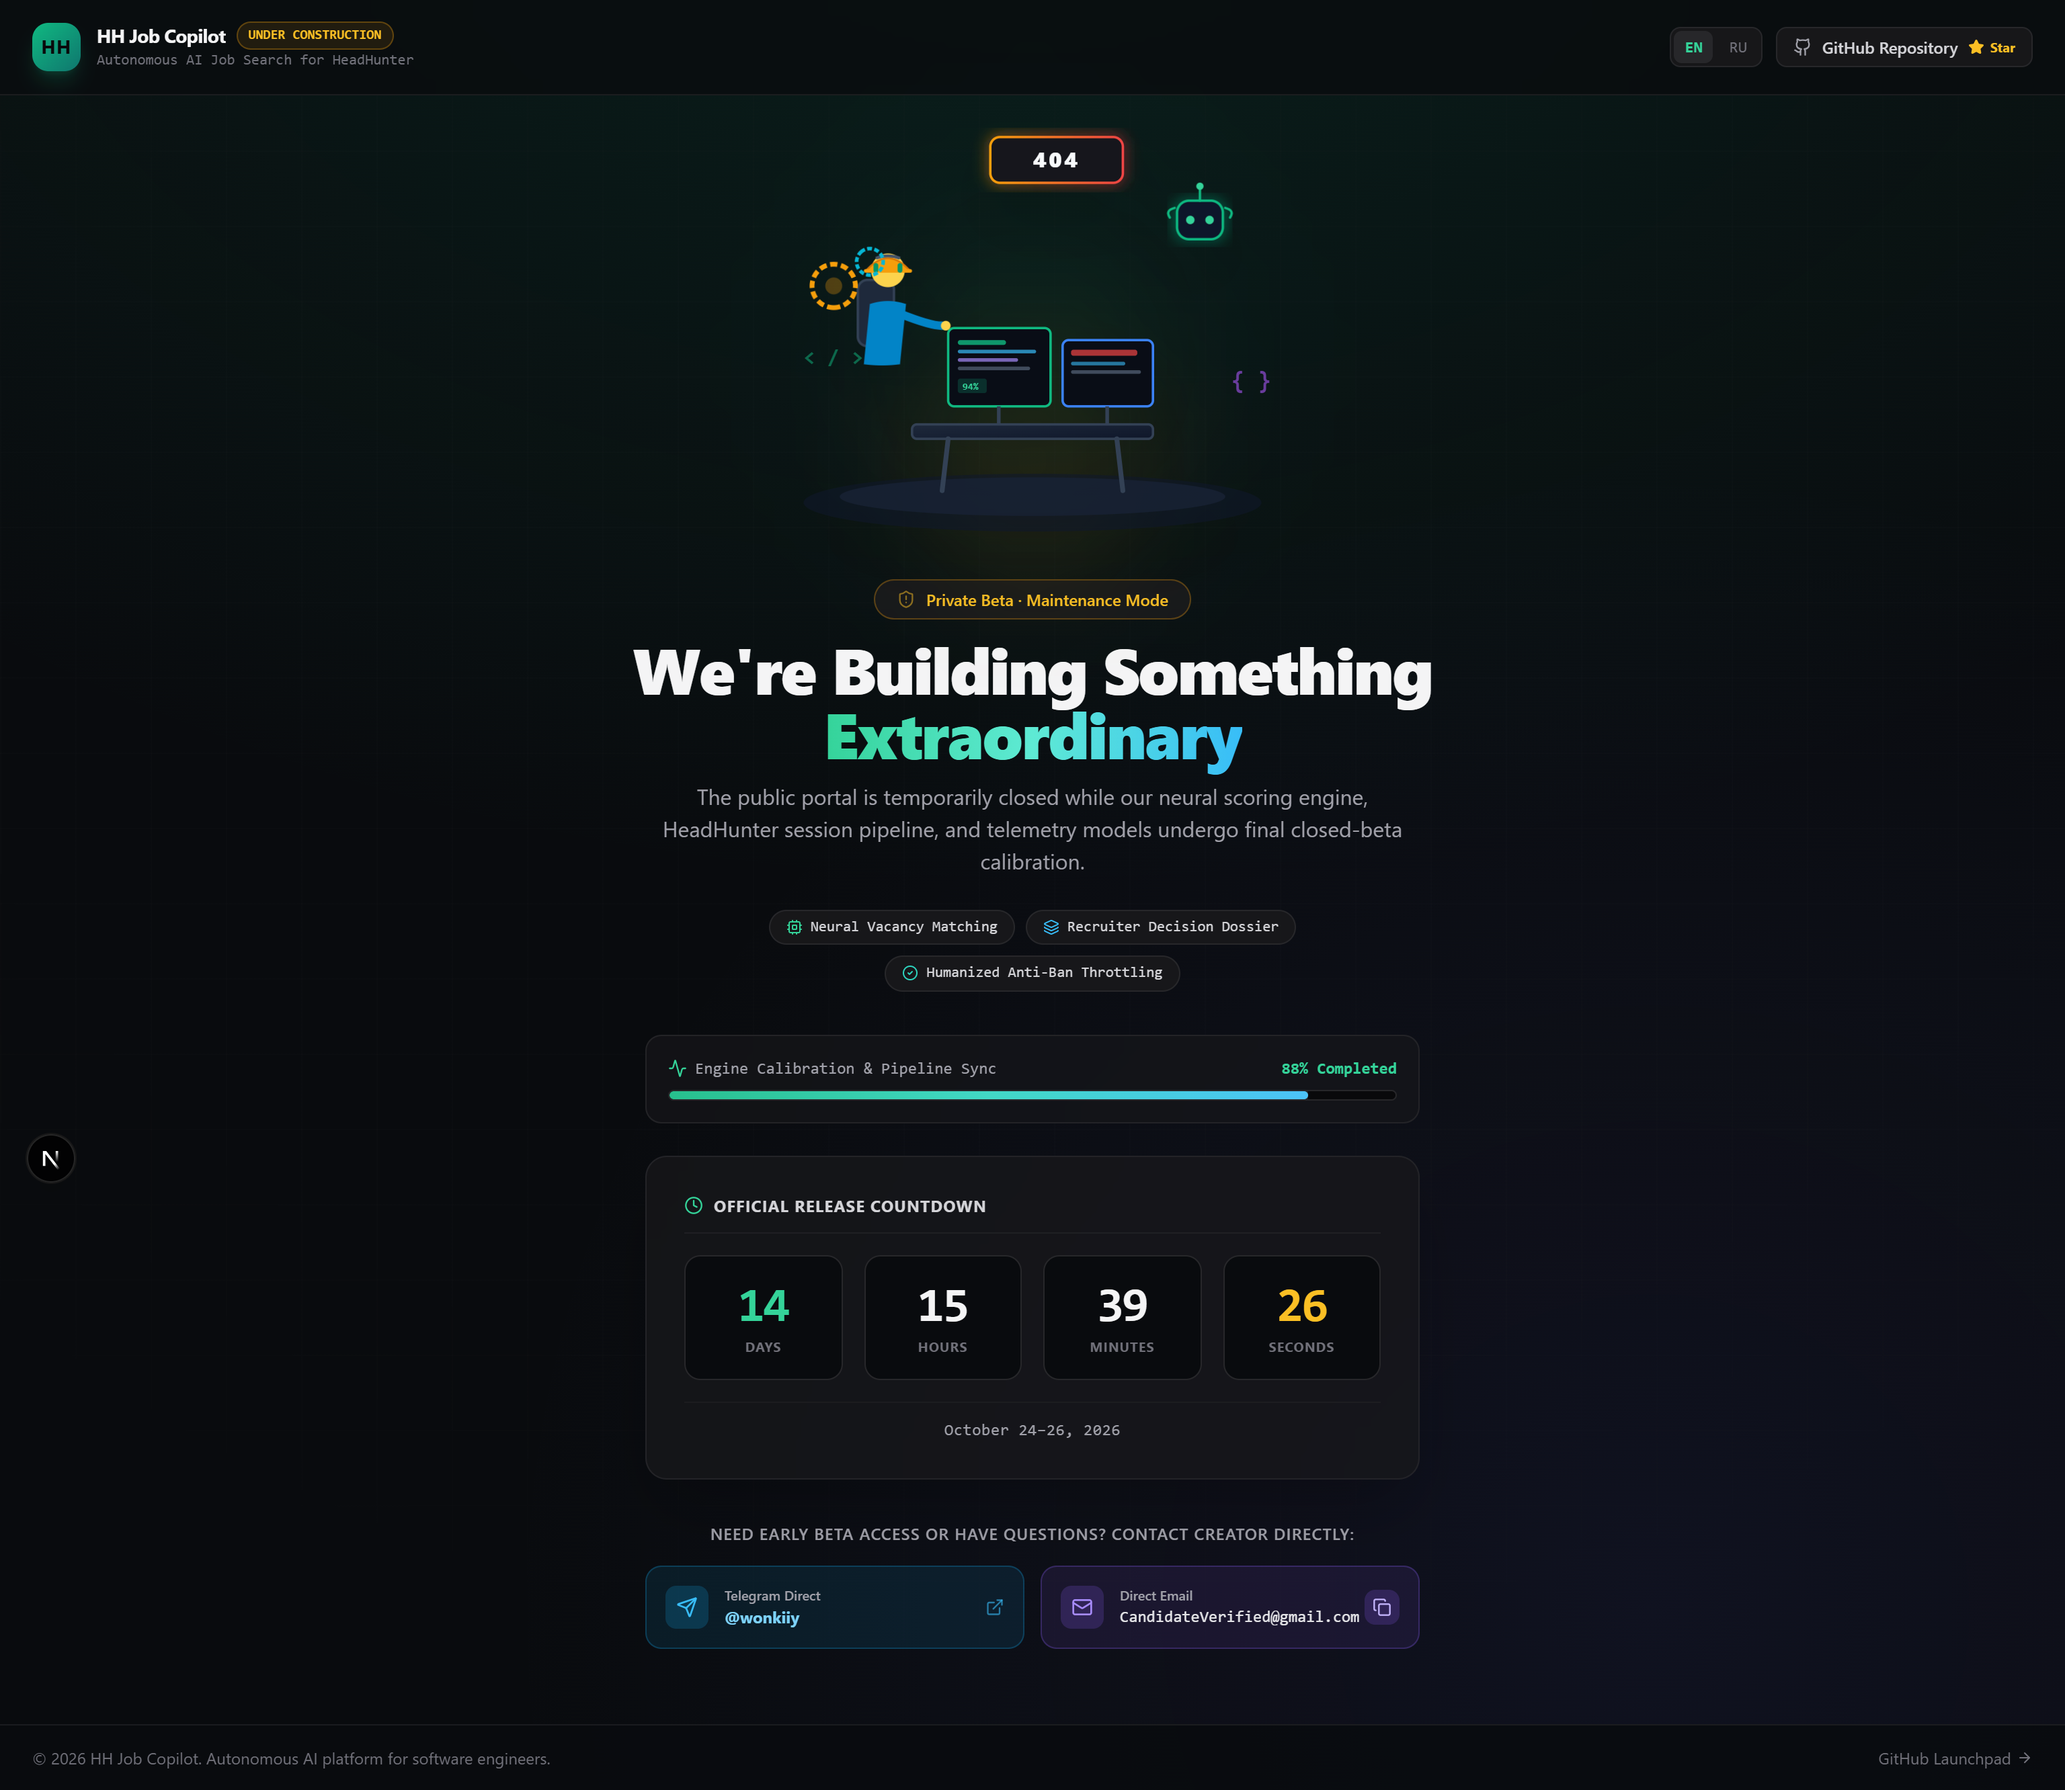
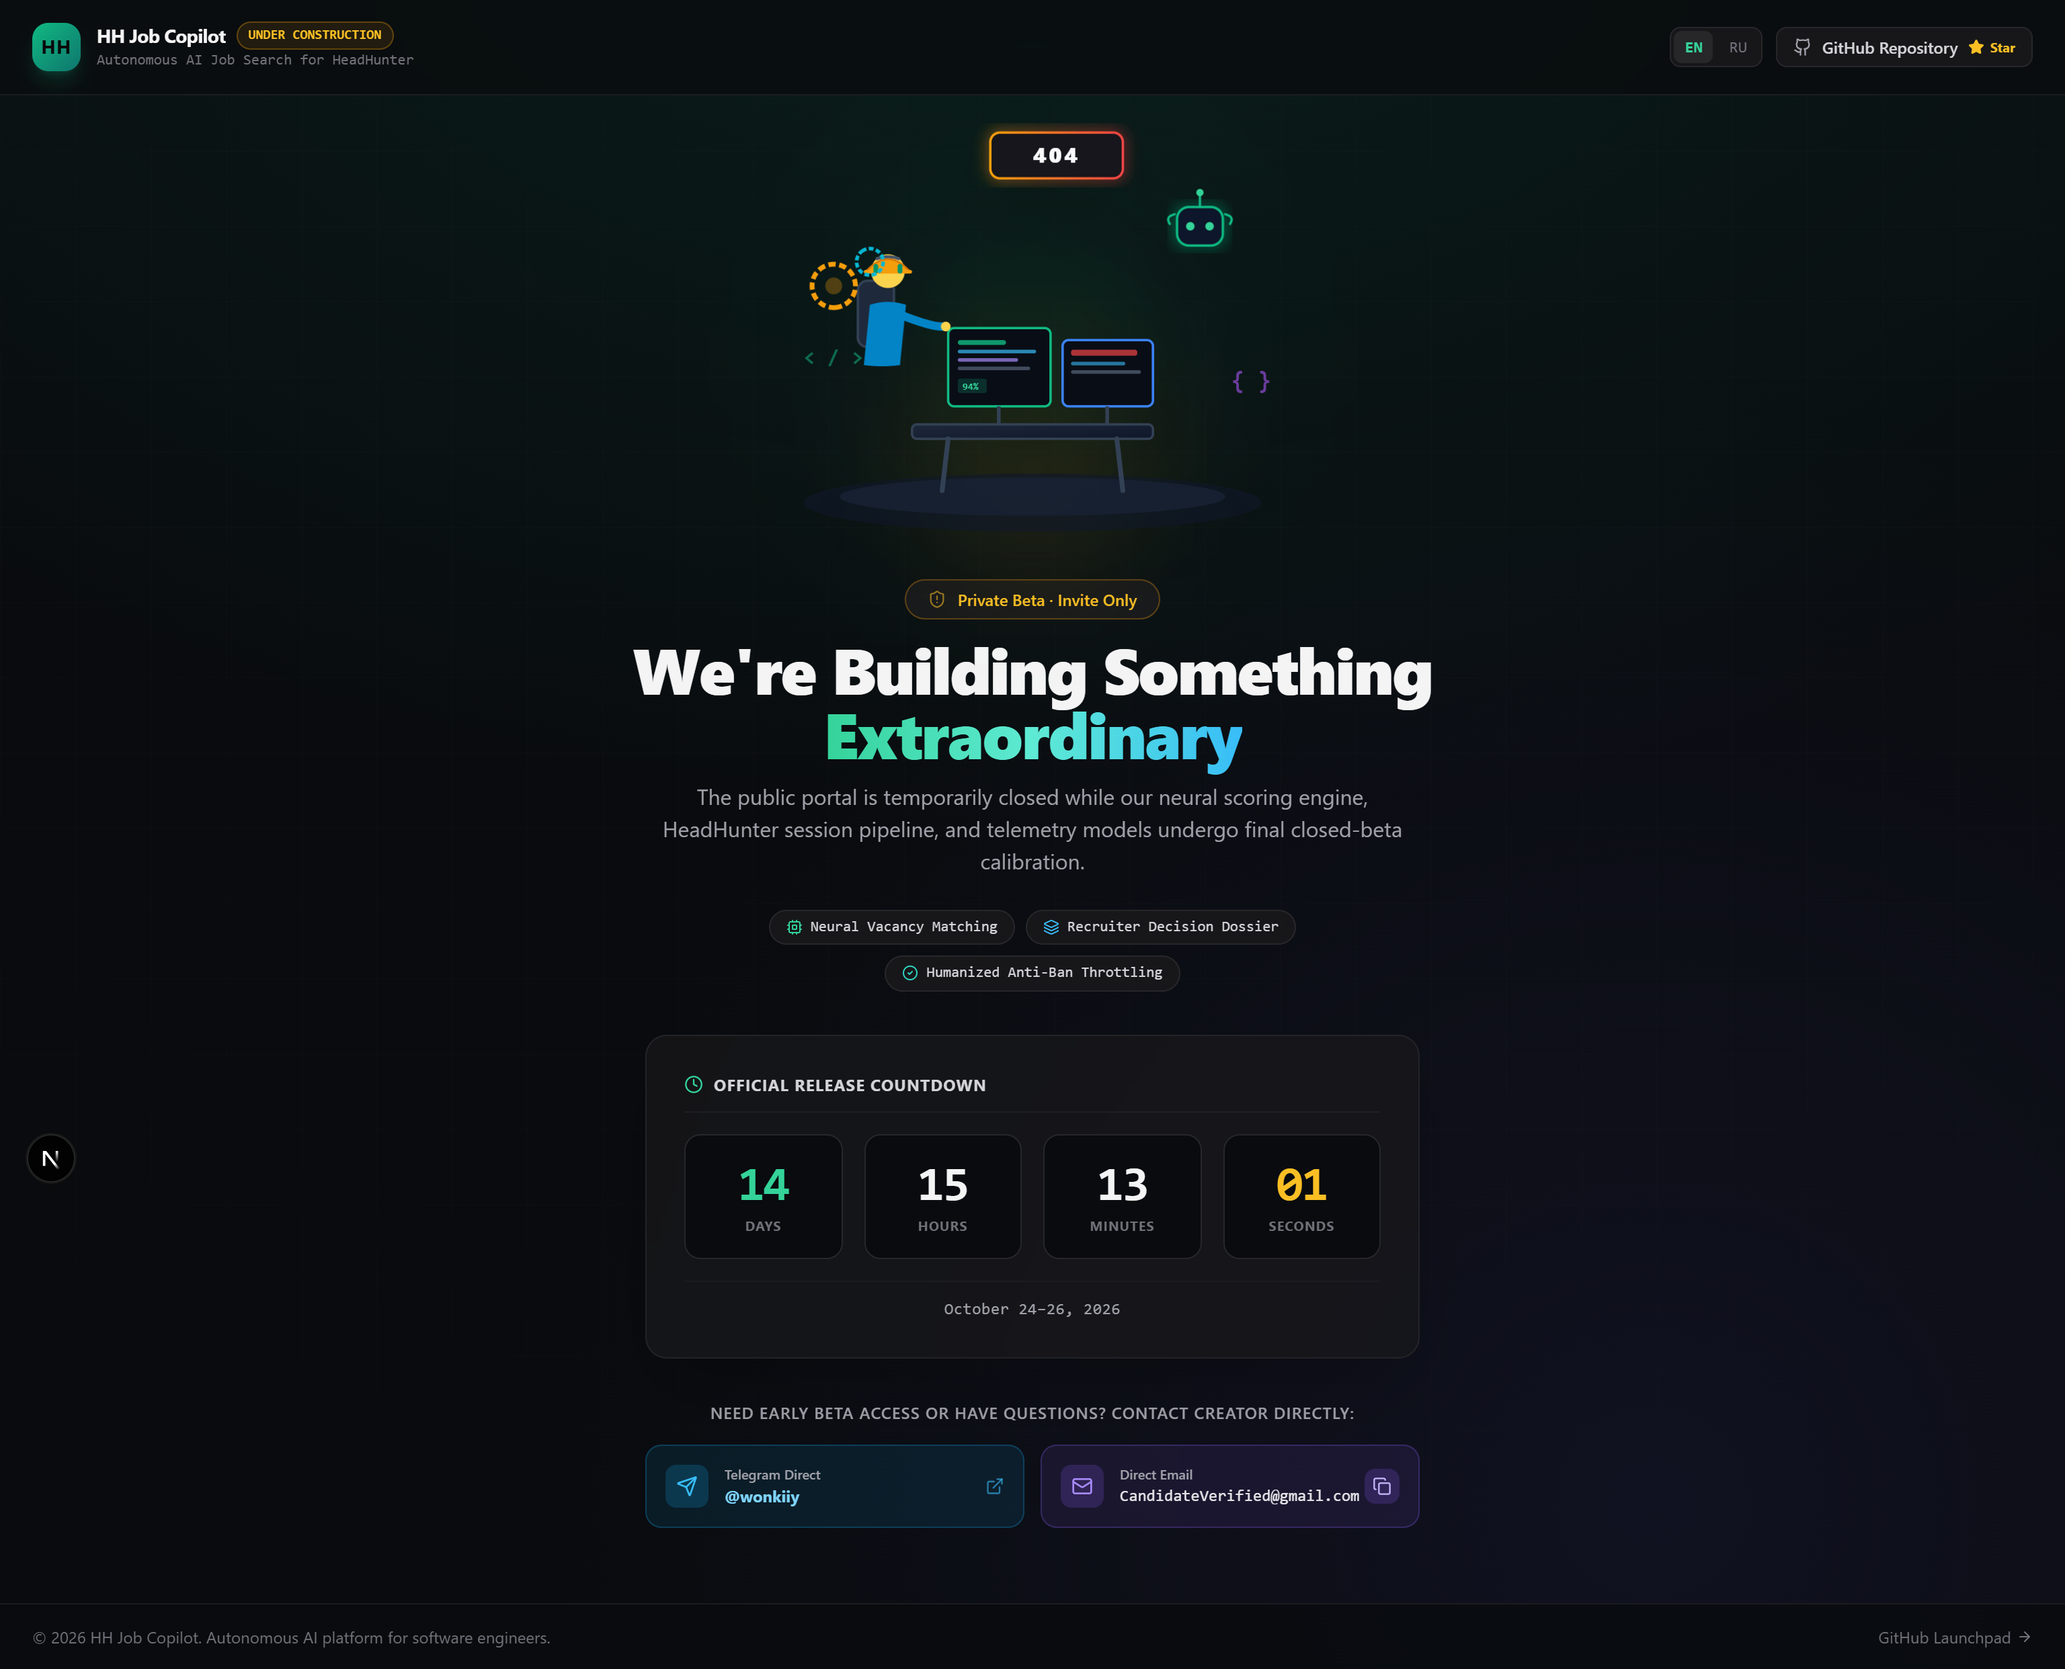
feat-update-invite-only-and-remove-progress-bar

diff --git a/src/components/UnderConstruction404.tsx b/src/components/UnderConstruction404.tsx
@@ -21,7 +21,6 @@ import {
   ArrowRight,
   ExternalLink,
   Star,
-  Activity,
   Cpu,
   Layers,
   CheckCircle2,
@@ -36,15 +35,13 @@ const CONTENT = {
     brandDesc: "Autonomous AI Job Search for HeadHunter",
     githubRepo: "GitHub Repository",
     status404: "HTTP 404 · Route Under Construction",
-    statusBeta: "Private Beta · Maintenance Mode",
+    statusBeta: "Private Beta · Invite Only",
     headlineStart: "We're Building Something",
     headlineHighlight: "Extraordinary",
     subtitle: "The public portal is temporarily closed while our neural scoring engine, HeadHunter session pipeline, and telemetry models undergo final closed-beta calibration.",
     pillMatching: "Neural Vacancy Matching",
     pillDossier: "Recruiter Decision Dossier",
     pillAntiBan: "Humanized Anti-Ban Throttling",
-    progressTitle: "Engine Calibration & Pipeline Sync",
-    progressPercent: "88% Completed",
     countdownTitle: "Official Release Countdown",
     dateText: "October 24–26, 2026",
     days: "Days",
@@ -62,15 +59,13 @@ const CONTENT = {
     brandDesc: "Автономный ИИ-поиск работы на HeadHunter",
     githubRepo: "Репозиторий GitHub",
     status404: "HTTP 404 · Страница в разработке",
-    statusBeta: "Закрытый бета-тест · Режим обслуживания",
+    statusBeta: "Закрытый бета-тест · Только по приглашениям",
     headlineStart: "Мы создаем нечто",
     headlineHighlight: "исключительное",
     subtitle: "Публичный портал временно закрыт: наш нейросетевой скоринг, модуль сессий HeadHunter и телеметрия проходят финальную калибровку закрытого бета-тестирования.",
     pillMatching: "Нейросетевой подбор вакансий",
     pillDossier: "Досье на рекрутера",
     pillAntiBan: "Защита от блокировок HH.ru",
-    progressTitle: "Калибровка движка и синхронизация",
-    progressPercent: "88% Завершено",
     countdownTitle: "Обратный отсчет до официального релиза",
     dateText: "24–26 октября 2026",
     days: "Дней",
@@ -360,22 +355,6 @@ export default function UnderConstruction404({ is404 = true }: { is404?: boolean
           <span className="inline-flex items-center gap-1.5 px-3 py-1 rounded-full bg-zinc-900/90 border border-zinc-800 text-[11px] font-mono text-zinc-300">
             <CheckCircle2 className="w-3 h-3 text-teal-400" /> {t.pillAntiBan}
           </span>
-        </div>
-
-        {/* Progress Bar (Elementor Pro Maintenance Gauge) */}
-        <div className="w-full max-w-xl bg-zinc-900/60 border border-zinc-800/80 rounded-xl p-4 mb-6 text-left backdrop-blur-md">
-          <div className="flex items-center justify-between text-xs mb-2">
-            <span className="text-zinc-400 font-mono flex items-center gap-1.5 font-medium">
-              <Activity className="w-3.5 h-3.5 text-emerald-400" />
-              {t.progressTitle}
-            </span>
-            <span className="font-mono font-bold text-emerald-400">{t.progressPercent}</span>
-          </div>
-          <div className="w-full h-2 bg-zinc-950 rounded-full overflow-hidden border border-zinc-800">
-            <div className="h-full bg-gradient-to-r from-emerald-500 via-teal-400 to-sky-400 rounded-full w-[88%] relative">
-              <div className="absolute inset-0 bg-white/20 animate-pulse" />
-            </div>
-          </div>
         </div>
 
         {/* Live Countdown Timer Section */}
